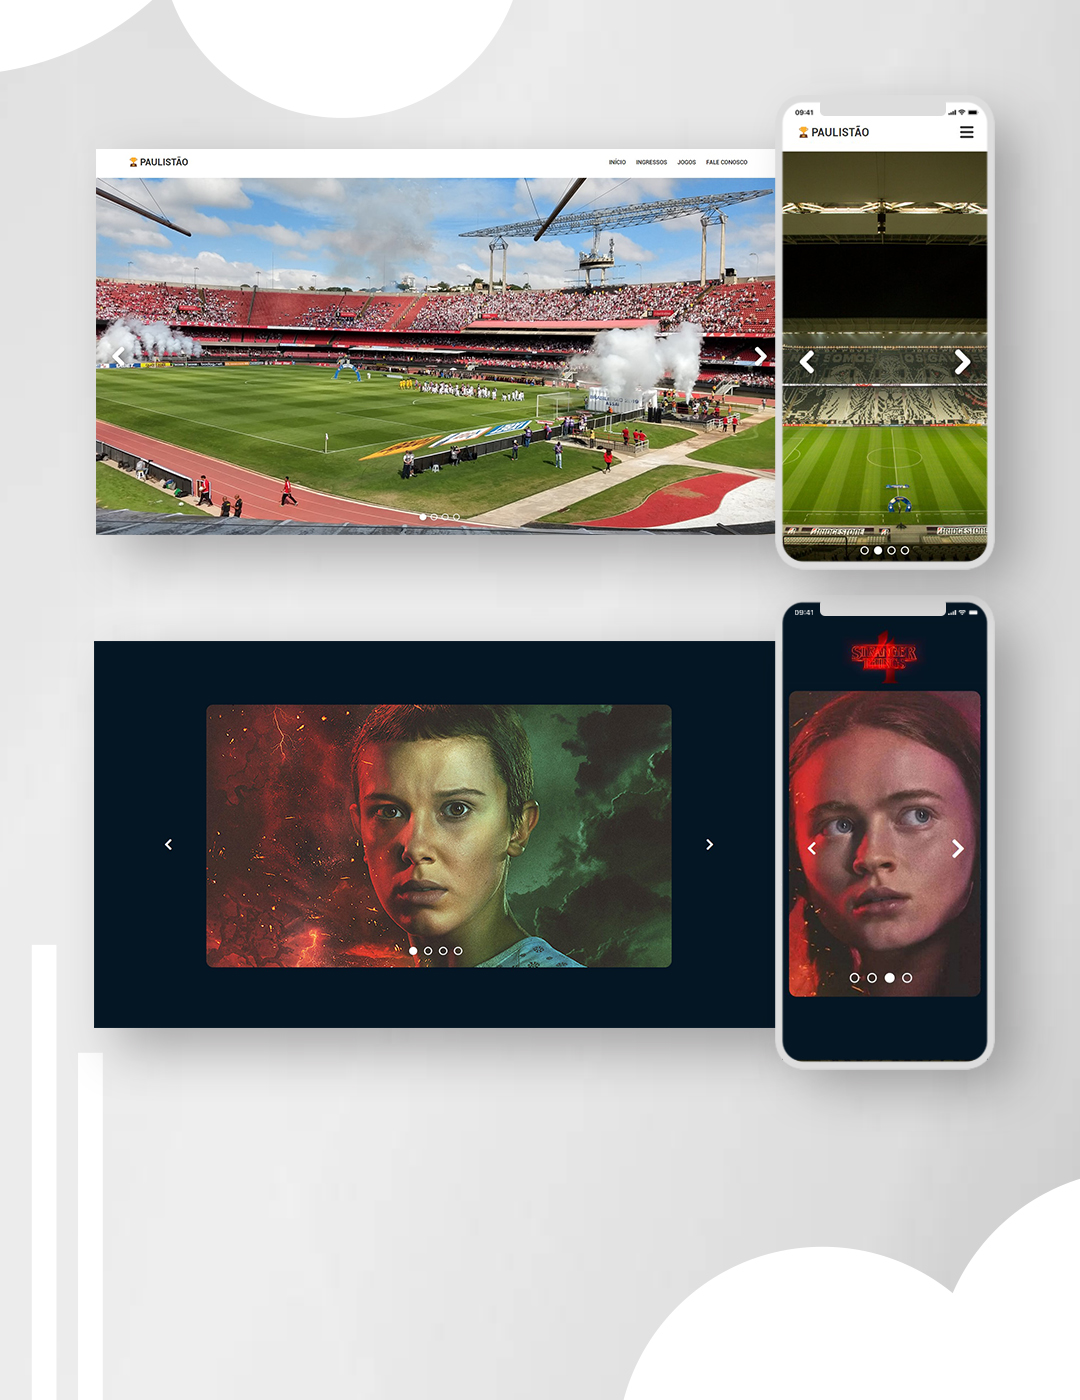
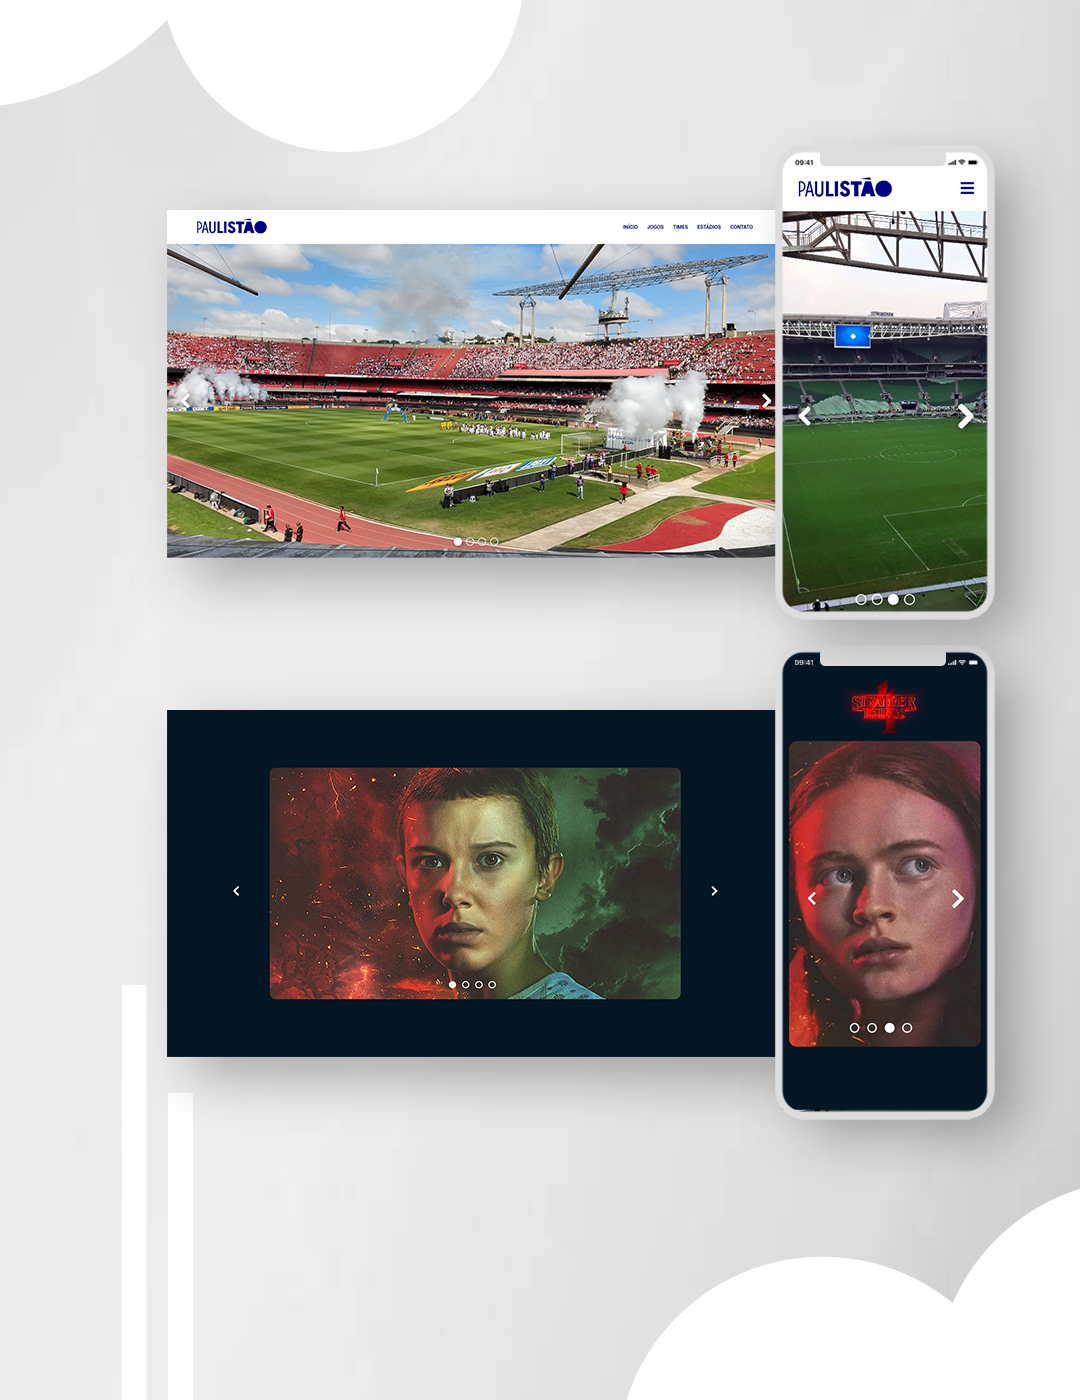
style: alteracao no layout

diff --git a/slider-site/style.css b/slider-site/style.css
@@ -15,12 +15,12 @@ header {
 
 .paulista {
   display: block;
-  width: fit-content;
-  height: 30px;
-  font-weight: bold;
-  line-height: 30px;
-  font-size: 1.3rem;
-  color: #333;
+  width: 180px;
+  height: 50px;
+}
+
+.paulista img {
+  width: 100%;
 }
 
 .menu--mobile {
@@ -33,7 +33,7 @@ header {
   display: block;
   height: 4px;
   width: 100%;
-  background-color: #333;
+  background-color: #000086;
   margin-bottom: 5px;
   border-radius: 5px;
 }
@@ -64,7 +64,7 @@ nav li a {
   display: block;
   margin: 10px 10px 4px 10px;
   text-decoration: none;
-  color: #333;
+  color: #000086;
   cursor: pointer;
   font-weight: 600;
   padding-bottom: 6px;
@@ -77,7 +77,7 @@ nav li a::after {
   left: 50%;
   width: 0%;
   height: 1px;
-  background: #333;
+  background: #000086;
   transition: 0.2s ease-out;
 }
 
@@ -116,19 +116,15 @@ nav li a:hover::after {
   display: flex;
   justify-content: space-between;
   align-items: center;
-  margin-left: auto;
 }
 
 .control {
   margin-left: 20px;
   margin-right: 20px;
   text-align: center;
-  width: 60px;
-  height: 60px;
-  color: #fff;
-  font-size: 1.8rem;
+  width: 50px;
+  height: 50px;
   cursor: pointer;
-  user-select: none;
   display: flex;
   justify-content: center;
   align-items: center;
@@ -136,7 +132,8 @@ nav li a:hover::after {
 }
 
 .control img:hover {
-  transform: scale(1.1);
+  transform: scale(1.3);
+  transition: all ease-in-out 0.3s;
 }
 
 .control img {
@@ -156,14 +153,14 @@ nav li a:hover::after {
 }
 
 .pointer {
-  width: 15px;
-  height: 15px;
+  width: 20px;
+  height: 20px;
   cursor: pointer;
   border: 2px solid #fff;
   border-radius: 50%;
   margin-left: 5px;
   margin-right: 5px;
-  transition: all 0.5s;
+  transition: all 0.8s;
   filter: drop-shadow(5px 2px 8px rgba(0, 0, 0, 0.568));
 }
 

diff --git a/slider-site/index.html b/slider-site/index.html
@@ -13,12 +13,16 @@
     <header>
         <div class="header">
             <nav>
-                <div class="paulista">🏆PAULISTÃO</div>
+                <div class="paulista">
+                    <a href="https://www.linkedin.com/in/mateusalvesds/"><img src="images/paulistao-logo.png"
+                            alt="logo"></a>
+                </div>
                 <ul>
-                    <li><a href="">Início</a></li>
-                    <li><a href="">Ingressos</a></li>
-                    <li><a href="">Jogos</a></li>
-                    <li><a href="">Fale conosco</a></li>
+                    <li><a href="https://www.linkedin.com/in/mateusalvesds/">Início</a></li>
+                    <li><a href="https://www.linkedin.com/in/mateusalvesds/">Jogos</a></li>
+                    <li><a href="https://www.linkedin.com/in/mateusalvesds/">Times</a></li>
+                    <li><a href="https://www.linkedin.com/in/mateusalvesds/">Estádios</a></li>
+                    <li><a href="https://www.linkedin.com/in/mateusalvesds/">Contato</a></li>
                 </ul>
                 <div class="menu--mobile">
                     <div class="linha"></div>

diff --git a/slider-site/script.js b/slider-site/script.js
@@ -70,4 +70,4 @@ setInterval(() => {
   } else {
     rolar = true;
   }
-}, 4000);
+}, 7000);

diff --git a/README.md b/README.md
@@ -17,15 +17,16 @@
 
 <div id="visao">
 <h1>Visão geral</h1>
-Slier (Carrosel) de imagens <strong>utilizado em muitos sites da web</strong>, principalmente em e-commerce, onde é possível passar para a próxima imagem ou para a anterior, clicando nos <strong>botões de setas</strong> ou através das <strong>bolinhas</strong> que indicam qual imagem do slide está sendo exibida.
-No <strong>modelo 1</strong> foi criado no formato comum visto em sites, já no <strong>modelo 2</strong>, foi criado em formato de uma galeria de fotos. Também foi trabalhado <strong>responsividade</strong> em ambos os sliders. É possível testaros dois modelos clicando nos links abaixo.
+Slider (Carrosel) de imagens <strong>utilizado em muitos sites da web</strong>, principalmente em e-commerce, onde é possível passar para a próxima imagem ou para a anterior, clicando nos <strong>botões de setas</strong> ou através das <strong>bolinhas</strong> que indicam qual imagem do slide está sendo exibida.
+No <strong>modelo 1</strong> foi criado no formato home page com barra de menu, onde é comum de se encontrar, já no <strong>modelo 2</strong>, foi criado em formato de uma galeria de fotos.<br>
+Também foi trabalhado <strong>responsividade</strong> em ambos os sliders. É possível testar os dois modelos clicando nos links abaixo.
 </div>
 <br>
 <br>
 
 <h1 align="center">
 <!-- <h1> -->
-<a href="https://matealves.github.io/slider/slider-site/index.html" target="_blank">Testar - slider site</a> 
+<a href="https://matealves.github.io/slider/slider-site/index.html" target="_blank">Testar - home Paulistão</a> 
 <br>
 <br>
 <a href="https://matealves.github.io/slider/slider-gallery/index.html" target="_blank">Testar - slider gallery</a> 
